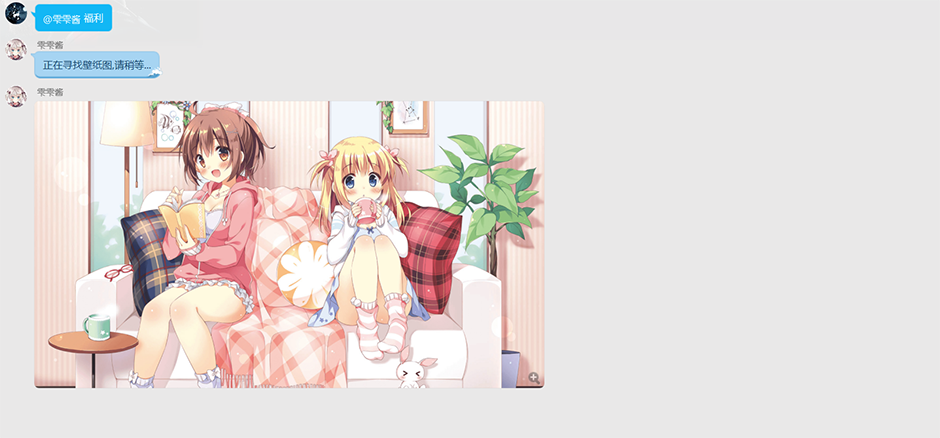
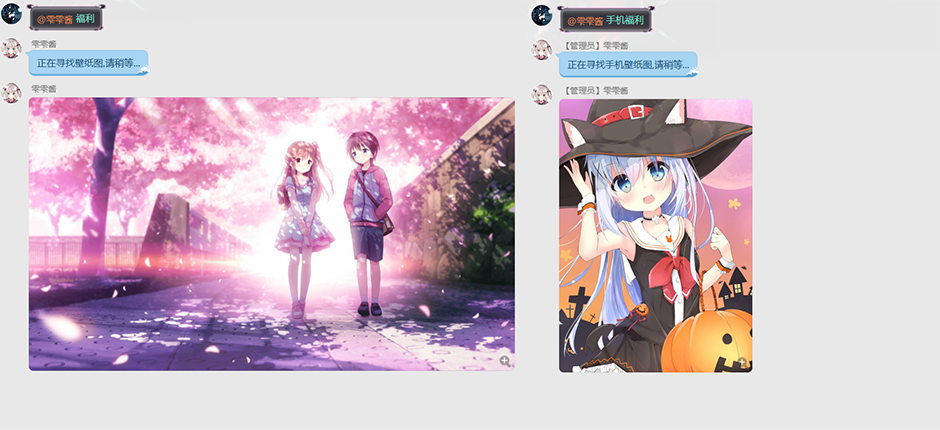
Site updated: 2020-04-28 21:43:16

diff --git a/nana/index.html b/nana/index.html
@@ -272,7 +272,7 @@ section {
 							壁纸福利
 						</div>
 						<div class="caption elemHover fromLeft" style="padding-top:5px;">
-							@福利
+							@福利；@手机福利
 						</div>
 					</div>
 					<!-- 轮播主体10 -->
@@ -382,7 +382,7 @@ section {
 							进群审核
 						</div>
 						<div class="caption elemHover fromLeft" style="padding-top:5px;">
-							全自动审核论坛用户和“Cipher”用户，进群10分钟内无人发言者自动踢出
+							全自动审核论坛用户和“Cipher”用户，进群10分钟内无人发言者通过群投票方式进行踢出
 						</div>
 					</div>
 					<!-- 轮播主体21 -->
